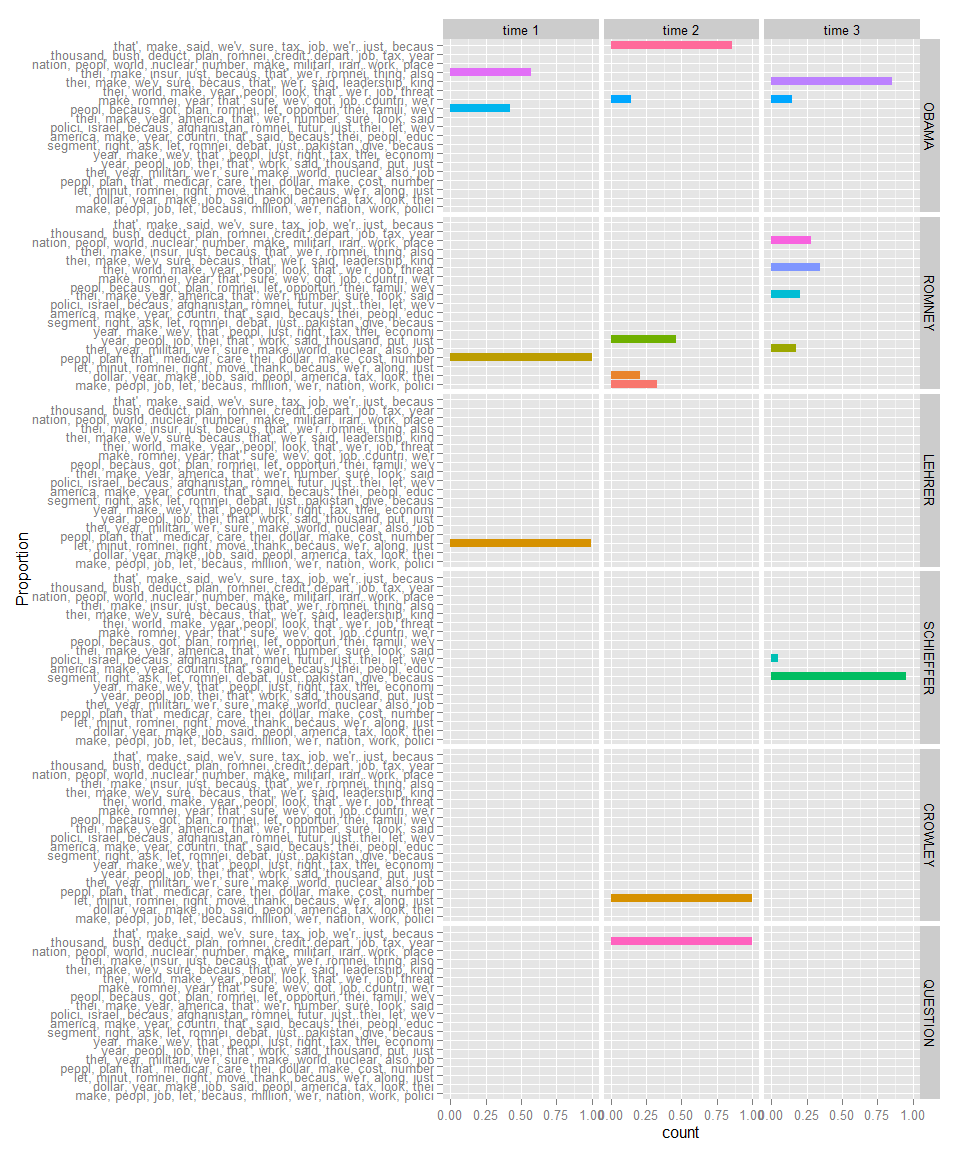
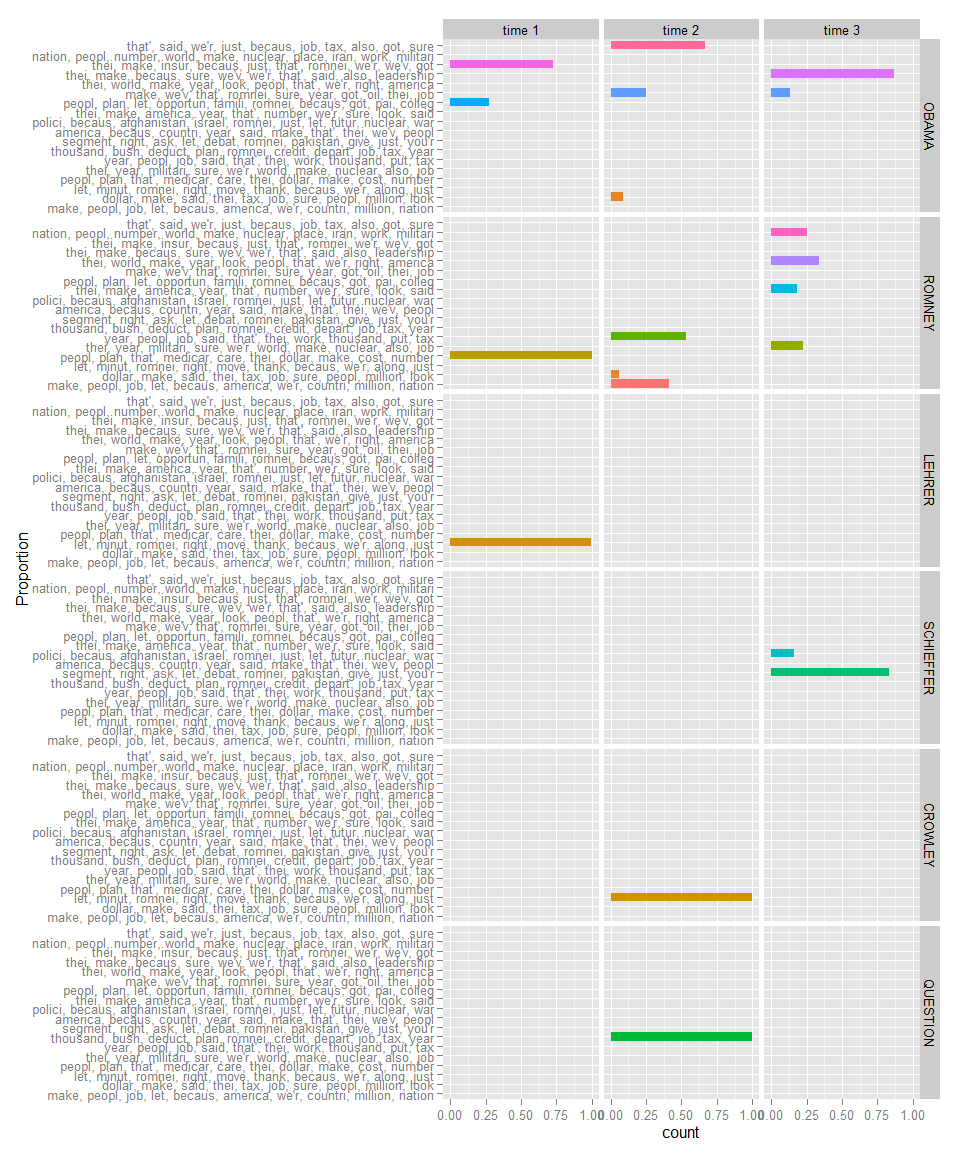
reran readme

diff --git a/README.md b/README.md
@@ -327,6 +327,9 @@ The .R script for this demonstration can be downloaded from
 ### Install/Load Tools & Data
 
     if (!require("pacman")) install.packages("pacman")
+
+    ## Loading required package: pacman
+
     pacman::p_load_gh("trinker/gofastr")
     pacman::p_load(tm, topicmodels, dplyr, tidyr,  devtools, LDAvis, ggplot2)
 
@@ -364,14 +367,14 @@ The .R script for this demonstration can be downloaded from
 ### Determine Optimal Number of Topics
 
 The plot below shows the harmonic mean of the log likelihoods against k
-(number of topics). It appears the optimal number of topics is ~k = 18.
+(number of topics). It appears the optimal number of topics is ~k = 13.
 
     optimal_k(doc_term_mat)
 
     ## 
     ## Grab a cup of coffee this is gonna take a while...
 
-    ## Optimal number of topics = 18
+    ## Optimal number of topics = 13
 
 ![](inst/figure/unnamed-chunk-5-1.png)
 
@@ -406,6 +409,40 @@ document, however, the reader may [see the results
 here](http://trinker.github.io/LDAvis/example/).
 
     lda_model %>%
+        topicmodels2LDAvis() %>%
+        LDAvis::serVis()
+
+### Apply Model to New Data
+
+    ## Create the DocumentTermMatrix for New Data
+    doc_term_mat2 <- partial_republican_debates_2015 %>%
+        with(gofastr::q_dtm_stem(dialogue, paste(person, location, sep = "_"))) %>%           
+        gofastr::remove_stopwords(stops) %>%                                                    
+        gofastr::filter_tf_idf() %>%
+        gofastr::filter_documents() 
+
+
+    ## Run the Model for New Data
+    lda_model2 <- topicmodels::LDA(doc_term_mat2, k = k, model = lda_model, control = list(seed = 100, estimate.beta = FALSE))
+
+
+    ## Plot the Topics Per Person & Location for New Data
+    topics2 <- topicmodels::posterior(lda_model2, doc_term_mat2)[["topics"]]
+    topic_dat2 <- dplyr::add_rownames(as.data.frame(topics2), "Person_Location")
+    colnames(topic_dat2)[-1] <- apply(terms(lda_model2, 10), 2, paste, collapse = ", ")
+
+    tidyr::gather(topic_dat2, Topic, Proportion, -c(Person_Location)) %>%
+        tidyr::separate(Person_Location, c("Person", "Location"), sep = "_") %>%
+        ggplot2::ggplot(ggplot2::aes(weight=Proportion, x=Topic, fill=Topic)) +
+            ggplot2::geom_bar() +
+            ggplot2::coord_flip() +
+            ggplot2::facet_grid(Person~Location) +
+            ggplot2::guides(fill=FALSE) +
+            ggplot2::xlab("Proportion")
+
+
+    ## LDAvis of Model for New Data
+    lda_model2 %>%
         topicmodels2LDAvis() %>%
         LDAvis::serVis()
 
